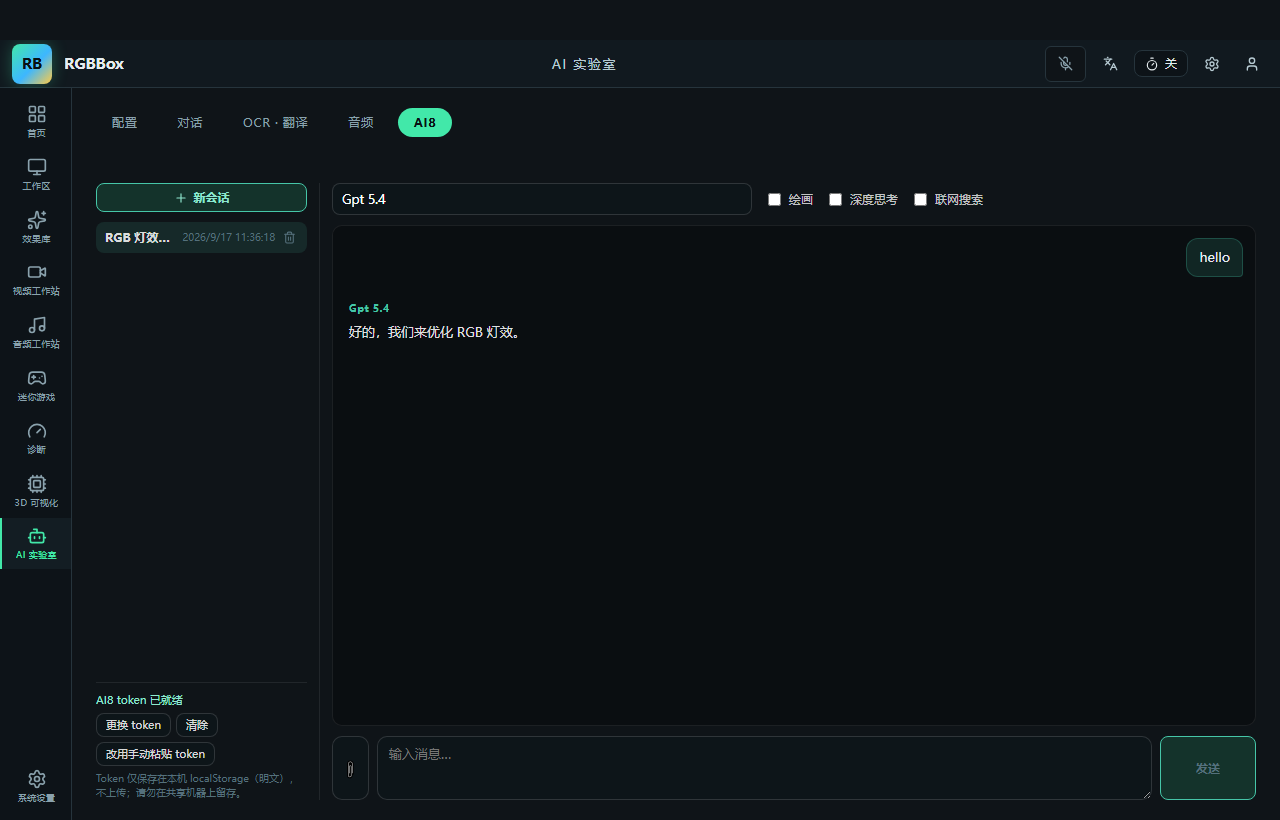
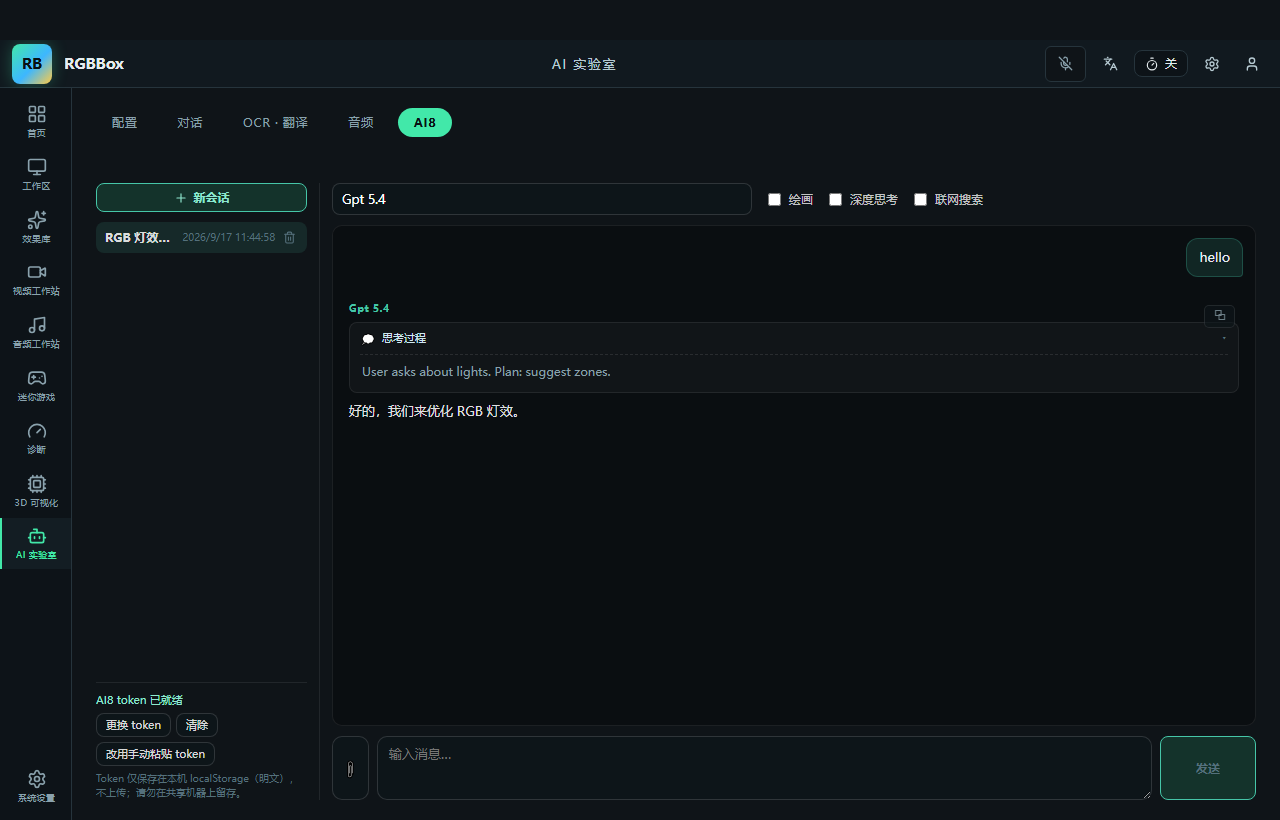
[PRD-0002] feat: R116 第三轮——<think> 思维链折叠面板（推理模型排版）
- markdown.tsx 增 splitThinkBlocks()（闭合/未闭合两态，流式容错）+ ThinkPanel 折叠组件
- 流式中展开显示「思考中…」+💭呼吸动画；闭合标签到达自动收起为「思考过程」；点击展开 12px 灰字、内滚限高
- 正文段照常 MarkdownView；i18n +2 keys；mock 回复带 think 链验证
- 证据：typecheck 0 error；yarn test 90 files / 819 passed / 0 失败（+3 用例）；verify-r116-ai8.mjs 26/26 PASS

Changed region(s): [[0.2812, 0.3963, 0.4688, 0.4573], [0.2812, 0.4878, 0.4062, 0.5183], [0.9375, 0.3659, 0.9688, 0.3963]]

diff --git a/src/renderer/src/ai8/markdown.tsx b/src/renderer/src/ai8/markdown.tsx
@@ -2,7 +2,53 @@
 // (runtime deps are react-only by project convention). The parser is a pure
 // function over lines, tolerant of the unclosed code fence that streaming
 // always leaves at the tail of the latest assistant message.
-import { useState, type JSX, type ReactNode } from 'react'
+import { useEffect, useState, type JSX, type ReactNode } from 'react'
+
+// ── R116 (round 3): <think> reasoning chains ───────────────────────────────
+// Reasoning models (Kimi-k3, Grok, …) wrap their chain of thought in
+// <think>…</think>. Rendering that raw floods the chat; we split it out into
+// a collapsible panel instead (DeepSeek/ChatGPT style). While streaming the
+// tag is unclosed — the panel shows a live "thinking…" state and collapses
+// itself the moment the closing tag arrives.
+
+export type ThinkSegment =
+  | { kind: 'think'; body: string; closed: boolean }
+  | { kind: 'text'; body: string }
+
+export function splitThinkBlocks(text: string): ThinkSegment[] {
+  const segments: ThinkSegment[] = []
+  let rest = text
+  while (true) {
+    const open = rest.indexOf('<think>')
+    if (open === -1) break
+    if (open > 0) segments.push({ kind: 'text', body: rest.slice(0, open) })
+    const after = rest.slice(open + '<think>'.length)
+    const close = after.indexOf('</think>')
+    if (close === -1) {
+      segments.push({ kind: 'think', body: after, closed: false })
+      return segments
+    }
+    segments.push({ kind: 'think', body: after.slice(0, close), closed: true })
+    rest = after.slice(close + '</think>'.length)
+  }
+  if (rest !== '') segments.push({ kind: 'text', body: rest })
+  return segments
+}
+
+export function ThinkPanel({ body, closed, thinkingLabel, thoughtLabel }: { body: string; closed: boolean; thinkingLabel: string; thoughtLabel: string }): JSX.Element {
+  const [open, setOpen] = useState(!closed)
+  useEffect(() => { setOpen(!closed) }, [closed])
+  return (
+    <div className={`ai8-think${closed ? '' : ' live'}`}>
+      <button type="button" className="ai8-think-toggle" onClick={() => setOpen((v) => !v)}>
+        <span className="ai8-think-icon">💭</span>
+        <span>{closed ? thoughtLabel : thinkingLabel}</span>
+        <span className="ai8-think-arrow">{open ? '▾' : '▸'}</span>
+      </button>
+      {open ? <div className="ai8-think-body">{body}</div> : null}
+    </div>
+  )
+}
 
 export type MdBlock =
   | { kind: 'heading'; level: number; text: string }

diff --git a/tests/renderer/ai8/markdown.test.ts b/tests/renderer/ai8/markdown.test.ts
@@ -2,7 +2,7 @@
 import { describe, it, expect } from 'vitest'
 import { createElement } from 'react'
 import { renderToString } from 'react-dom/server'
-import { parseMarkdown, renderInline } from '../../../src/renderer/src/ai8/markdown'
+import { parseMarkdown, renderInline, splitThinkBlocks } from '../../../src/renderer/src/ai8/markdown'
 
 describe('renderer/ai8 markdown parser (R114)', () => {
   it('parses headings, lists, quotes, hr and paragraphs', () => {
@@ -34,5 +34,34 @@ describe('renderer/ai8 markdown parser (R114)', () => {
     expect(html).toContain('<strong>粗体</strong>')
     expect(html).toContain('<code class="md-inline-code">code</code>')
     expect(html).toContain('href="https://example.com"')
+  })
+})
+
+describe('renderer/ai8 think-block splitting (R116 round 3)', () => {
+  it('splits a closed think chain from the visible reply', () => {
+    const segs = splitThinkBlocks('<think>User asks what model I am.</think>\n我是 Kimi。')
+    expect(segs).toEqual([
+      { kind: 'think', body: 'User asks what model I am.', closed: true },
+      { kind: 'text', body: '\n我是 Kimi。' },
+    ])
+  })
+
+  it('treats an unclosed think tag as a live (streaming) segment', () => {
+    const segs = splitThinkBlocks('<think>The user asked: "你是什么')
+    expect(segs).toEqual([
+      { kind: 'think', body: 'The user asked: "你是什么', closed: false },
+    ])
+  })
+
+  it('keeps tag-free text intact and handles mid-message chains', () => {
+    expect(splitThinkBlocks('普通回复，没有思维链')).toEqual([
+      { kind: 'text', body: '普通回复，没有思维链' },
+    ])
+    const mid = splitThinkBlocks('开头。\n<think>中间思考</think>结尾。')
+    expect(mid).toEqual([
+      { kind: 'text', body: '开头。\n' },
+      { kind: 'think', body: '中间思考', closed: true },
+      { kind: 'text', body: '结尾。' },
+    ])
   })
 })

diff --git a/src/renderer/src/components/AiLabAi8Tab.tsx b/src/renderer/src/components/AiLabAi8Tab.tsx
@@ -1,7 +1,7 @@
 import { useCallback, useEffect, useMemo, useRef, useState, type JSX } from 'react'
 import { Plus, Trash2 } from 'lucide-react'
 import { useI18n } from '../i18n'
-import { MarkdownView } from '../ai8/markdown'
+import { MarkdownView, ThinkPanel, splitThinkBlocks } from '../ai8/markdown'
 import { Ai8Client, Ai8Error, readStoredToken, writeStoredToken, type Ai8Model } from '../ai8/client'
 import { cleanGeneratedTitle, groupModelsByProvider, matchCurated, readActiveId, readPrefs, readSessions, titleFromContent, writeActiveId, writePrefs, writeSessions, type Ai8Prefs, type Ai8Session, type Ai8Turn } from '../ai8/localStore'
 
@@ -480,7 +480,13 @@ export function AiLabAi8Tab(): JSX.Element {
                   ? (
                     <>
                       <span className="ai-msg-role">{activeModelLabel}</span>
-                      <MarkdownView text={turn.content} copyLabel={t('ai.ai8.copy')} copiedLabel={t('ai.ai8.copied')} />
+                      {splitThinkBlocks(turn.content).map((seg, j) => (
+                        seg.kind === 'think'
+                          ? <ThinkPanel key={j} body={seg.body} closed={seg.closed} thinkingLabel={t('ai.ai8.thinkingNow')} thoughtLabel={t('ai.ai8.thought')} />
+                          : seg.body.trim() === ''
+                            ? null
+                            : <MarkdownView key={j} text={seg.body} copyLabel={t('ai.ai8.copy')} copiedLabel={t('ai.ai8.copied')} />
+                      ))}
                     </>
                   )
                   : <span className="ai-msg-text">{turn.content}</span>}

diff --git a/src/renderer/src/styles.css b/src/renderer/src/styles.css
@@ -7720,6 +7720,35 @@ input[type='range'].video-player-volume {
 
 .ai-msg:hover .ai8-msg-copy { opacity: 1; }
 
+/* ── R116（第三轮）: <think> 思维链折叠面板（DeepSeek/ChatGPT 式） ─────────── */
+
+.ai8-think {
+  background: rgba(255, 255, 255, 0.03); border: 1px solid rgba(255, 255, 255, 0.08);
+  border-radius: 8px; margin: 2px 0 8px;
+}
+
+.ai8-think-toggle {
+  align-items: center; background: none; border: none; color: #9fb7c1; cursor: pointer;
+  display: flex; font-size: 11px; gap: 6px; padding: 6px 10px; text-align: left;
+  width: 100%;
+}
+
+.ai8-think-toggle:hover { color: #cfe8f0; }
+
+.ai8-think-icon { font-size: 12px; }
+
+.ai8-think.live .ai8-think-icon { animation: ai8-think-pulse 1.2s ease-in-out infinite; }
+
+@keyframes ai8-think-pulse { 50% { opacity: 0.35; } }
+
+.ai8-think-arrow { color: #55707c; font-size: 9px; margin-left: auto; }
+
+.ai8-think-body {
+  border-top: 1px dashed rgba(255, 255, 255, 0.1); color: #8aa0ab; font-size: 12px;
+  line-height: 1.55; margin: 0 10px; max-height: 260px; overflow-y: auto;
+  padding: 8px 2px 10px; white-space: pre-wrap; word-break: break-word;
+}
+
 /* ── R115: AI8 image attach + curated groups + lab-wide control theming ──── */
 
 .ai8-attach {

diff --git a/src/renderer/src/i18n/index.tsx b/src/renderer/src/i18n/index.tsx
@@ -61,6 +61,8 @@ const EN = {
   'ai.ai8.contextHint': 'Sessions keep context automatically — follow up freely.',
   'ai.ai8.needLogin': 'Sign in to AI8 first (button on the left)',
   'ai.ai8.needModel': 'Pick a model first',
+  'ai.ai8.thinkingNow': 'Thinking…',
+  'ai.ai8.thought': 'Thought process',
   'ai.ai8.copy': 'Copy',
   'ai.ai8.copied': 'Copied',
   'ai.ai8.curated.flagship': '🏆 Flagship · latest & strongest',
@@ -1196,6 +1198,8 @@ const ZH: TranslationTable = {
   'ai.ai8.contextHint': '同一会话自动携带上下文，可连续追问。',
   'ai.ai8.needLogin': '请先登录 AI8（左侧按钮）',
   'ai.ai8.needModel': '请先选择模型',
+  'ai.ai8.thinkingNow': '思考中…',
+  'ai.ai8.thought': '思考过程',
   'ai.ai8.copy': '复制',
   'ai.ai8.copied': '已复制',
   'ai.ai8.curated.flagship': '🏆 旗舰 · 最新最强',

diff --git a/docs/prd/PRD-0002-rgbbox-project-catalog.md b/docs/prd/PRD-0002-rgbbox-project-catalog.md
@@ -1144,7 +1144,7 @@
 
 > 触发场景：用户报告 AI8 Tab 三个问题：①选好模型发送消息即报「请求失败 (模型 是必填项)」；②发送/返回的消息字体偏大、样式不美观；③会话命名要智能——第一轮完成后自动提取关键信息命名标题（参考 chatgpt.com / claude.ai）。根因调查：`client.ts` `chat()` 请求体**从未携带 `model` 字段**（R110 移植遗漏），服务端 `/chat/completions` 以「模型 是必填项」拒绝——与选择器无关。
 - **R116.1 会话 model 修复（bug 本体，二轮定型）**：抓取官网线上前端 bundle 实证协议——**发送 body 不含 `model`**（服务端按会话存储的 model 路由，且严格解码器对未知字段 400）；「模型 是必填项」根因=会话在服务端缺 model（守卫时代前以空 model 创建的旧会话 + 站点近期收紧校验）。修复：①`buildChatBody()` 与官网字段逐一全等（无 model）；②**发送前检测** `activeSession.model !== prefs.model`（含空 model 旧会话/中途换模型）→ 先 `PUT /chat/session/{id} {model, name}` 同步再发送；③UI 守卫——模型未选时发送禁用+提示；④顺带修复 **id 严格比较 bug**：`appendTurn/patchLastAssistant/delta 循环` 用 `s.id === sessionId`（数字 vs localStorage 恢复的字符串）不匹配 → 刷新后继续旧会话时 turns 静默丢失 → empty-reply guard 误报「请求失败 (network)」——全部归一 `String()` 比较。
-- **R116.2 消息样式 ChatGPT 化（scope `.ai8` 不影响对话 Tab）**：①正文统一 13px/行高 1.6（`.ai-msg` 此前未设字号继承全局偏大）；②user 消息=右对齐青色 tint 气泡（圆角 12px、max-width 85%、不显示角色标签）；③assistant 消息=全宽无底块+模型名小徽章（查 models label，fallback 'AI'）；④错误消息=红色 tint 提示条 12px（此前 `.ai-msg-error` 完全无样式）；⑤布局：ai8 Tab 时 `.ai-lab` 加 `ai-lab-flush`（overflow hidden），`.ai8` 撑满剩余高、`.ai8-log` 内滚、输入行固定底部（ChatGPT 式，此前整页滚动）；新消息自动滚动到底；清理重复 CSS 声明（`.ai8-input-row .ai8-btn` 双定义等）。
+- **R116.2 消息样式 ChatGPT 化（scope `.ai8` 不影响对话 Tab）**：①正文统一 13px/行高 1.6（`.ai-msg` 此前未设字号继承全局偏大）；②user 消息=右对齐青色 tint 气泡（圆角 12px、max-width 85%、不显示角色标签）；③assistant 消息=全宽无底块+模型名小徽章（查 models label，fallback 'AI'）；④错误消息=红色 tint 提示条 12px（此前 `.ai-msg-error` 完全无样式）；⑤布局：ai8 Tab 时 `.ai-lab` 加 `ai-lab-flush`（overflow hidden），`.ai8` 撑满剩余高、`.ai8-log` 内滚、输入行固定底部（ChatGPT 式，此前整页滚动）；新消息自动滚动到底；清理重复 CSS 声明（`.ai8-input-row .ai8-btn` 双定义等）；⑥（第三轮追加）**`<think>` 思维链折叠面板**——推理模型（Kimi-k3/Grok 等）的 `<think>…</think>` 不再原样刷屏：`splitThinkBlocks()` 纯函数拆分（闭合/未闭合流式容错）+ `ThinkPanel` 折叠组件（流式中展开+💭呼吸动画「思考中…」、闭合标签到达自动收起为「思考过程」、点击展开 12px 灰字小号、max-height 260px 内滚）。
 - **R116.3 AI 智能会话标题（二轮定型）**：触发=会话第一轮 assistant 回复完成（非 error、内容非空）且未命名过（`Ai8Session.titled?` 标记，先置位防重）；实现=调用**官网原生端点** `POST /chat/generate-title/{sessionId}`（服务端自读会话内容生成 `data.name`，官网前端首条消息后 50ms 即调同款）→ `cleanGeneratedTitle()` 清洗（首行/去引号/去「标题：」前缀/截 24 字）→ 更新本地 title；任何失败静默退回首条消息截断标题；绘画会话（本地 draft 无服务器会话）保留 prompt 截断标题。
 - **受影响文件**：`ai8/client.ts`（buildChatBody+model）、`ai8/localStore.ts`（titled+cleanGeneratedTitle）、`AiLabAi8Tab.tsx`（守卫+命名接线+徽章+滚动）、`AiLabView.tsx`（ai-lab-flush 类）、`styles.css`、`i18n/index.tsx`（+1 key）、`tests/renderer/ai8/{client,localStore}.test.ts`。
 - **验收点**：①typecheck + 全量 `yarn test` 0 失败（+buildChatBody 含 model / cleanGeneratedTitle 用例）；②真机 CDP：模型下拉可选、发送不再出现「模型 是必填项」路径（无 token 守卫零回归）、user 右侧气泡/assistant 全宽/错误提示条样式断言、ai8 满高内滚布局截图复核；③首轮流完成后会话标题被替换为提炼标题（titled 置位断言）；④对话/OCR/audio Tab 样式零回归。
@@ -1152,6 +1152,7 @@
   - **第一轮（同日）**：typecheck 0 error；全量 `yarn test` 90 files / 816 passed / 0 失败；verify-r116-ai8.mjs（mock 网络）19/19 PASS；截图 `docs/screenshots/r116-ai8-workbench.png`。
   - **用户实测反馈（同日，两报：先「模型 是必填项」后「请求失败 (network)」）→ 二轮重查根因**：**抓官网线上前端 bundle（app+277 懒加载 chunk）还原真实协议**——①发送 body 字段集 `{text,sessionId,files,thinking,webSearch,nativeTools,nativeToolOptions,reasoningEffort}(+systemPrompt)` **不含 model**，一轮给 chat 加 model 是错误方向（服务端严格解码 400 → SSE 吞掉 → 表现为 network）；②「模型 是必填项」=会话缺 model（旧空 model 会话+站点收紧校验），官网切模型走 `PUT /chat/session/{id}`；③官网有原生 `POST /chat/generate-title/{id}` 端点（一轮的临时会话方案弃用）；④顺带挖出 **id 类型 bug**（数字 id vs localStorage 字符串严格比较不等 → 刷新后继续会话 turns 静默丢失 → 误报 network，正是用户第二报的根因之一）。
   - **二轮修复后验证**：①typecheck 0 error；②全量 `yarn test` **90 files / 816 passed / 0 失败**（buildChatBody 断言改为与官网字段集全等且无 model key）；③verify-r116-ai8.mjs v2 **23/23 PASS**：chat body 与线上官网字段逐一全等（无 model）+ 新会话恰 1 个 + **generate-title 原生端点调用（引号清洗）+ 无临时会话** + **旧会话（model=''）发送前被 PUT {model,name} 修复后流式正常** + 样式/布局/守卫/自动滚动全组零回归 + 0 页面错误。④其余四 Tab 零回归。
+  - **用户实测反馈第三轮（同日，「推理模型回复的 `<think>` 标签原样刷屏」，附 Kimi-k3/Grok 4.5/Gpt 5.5 三例截图文本）→ think 折叠面板**：`markdown.tsx` 增 `splitThinkBlocks()`（闭合/未闭合两态，未闭合=流式思考中）+ `ThinkPanel` 组件（流式展开「思考中…」+💭呼吸动画→闭合自动收起「思考过程」→点击再展开）；正文段照常 MarkdownView。验证：typecheck 0 error；全量 `yarn test` **90 files / 819 passed / 0 失败**（+3 用例：闭合拆分/未闭合流式/无标签与中置链）；verify-r116-ai8.mjs v3 **26/26 PASS**（+H 组：收起态文案「思考过程」且 body 不渲染、`<think>` 原文不漏进正文、点击展开可见思考内容）。
   - **环境异常记录（如实入档）**：会话中段本机 node 运行时被外部卸载（`D:\Program Files\nodejs` 仅剩 shim）——中途 zip 版 node 24.21.0 续跑，用户 MSI 重装 v24.21.0 恢复；electron 二进制两次经 npmmirror 镜像重拉（GitHub 直连 ECONNRESET）。**状态：✅（真实站点回归挂起用户重测）**
 
 ### R94. 视频工作站回归修复批次（2026-09-15 用户实测 R91 后四项反馈）
